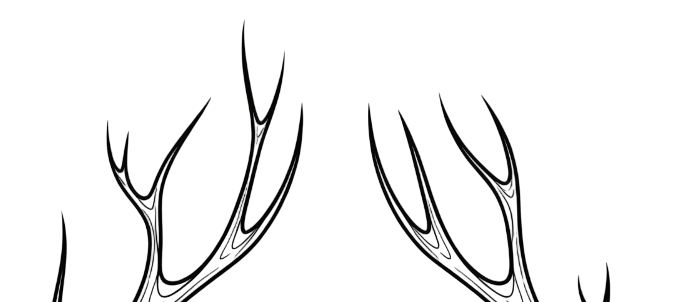
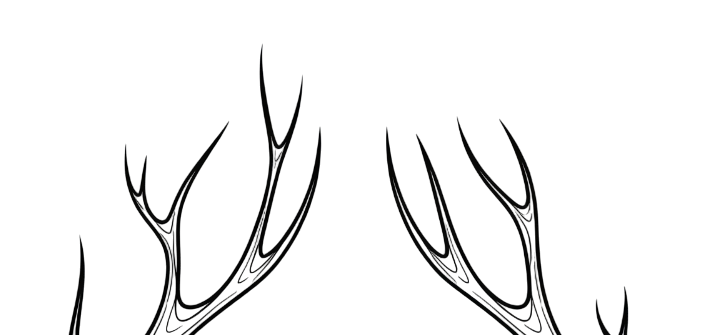
[dyad] Ponownie dodano obraz holder3.png. - wrote 1 file(s) + extra files edited outside of Dyad

Changed region(s): [[0.156, 0.0894, 0.4681, 1.0], [0.5305, 0.3278, 0.9049, 1.0], [0.0624, 0.7152, 0.1248, 1.0]]

diff --git a/src/components/PowerCrystal.tsx b/src/components/PowerCrystal.tsx
@@ -141,6 +141,14 @@ export const PowerCrystal: React.FC<PowerCrystalProps> = React.memo(({ onCrystal
           style={{ top: 47, left: 12 }}
         />
 
+        {/* Nowy element holder3.png */}
+        <img
+          src="/holder3.png" 
+          alt="Crystal Holder Top"
+          className="absolute w-[200px] h-[100px] z-[6] filter-white-invert" // Pozycjonowanie i styl
+          style={{ top: 0, left: 12 }}
+        />
+
         {/* Nowy element pod kryształem mocy (okrągła podstawa) */}
         <div
           className="absolute rounded-full bg-gray-800 z-10"
